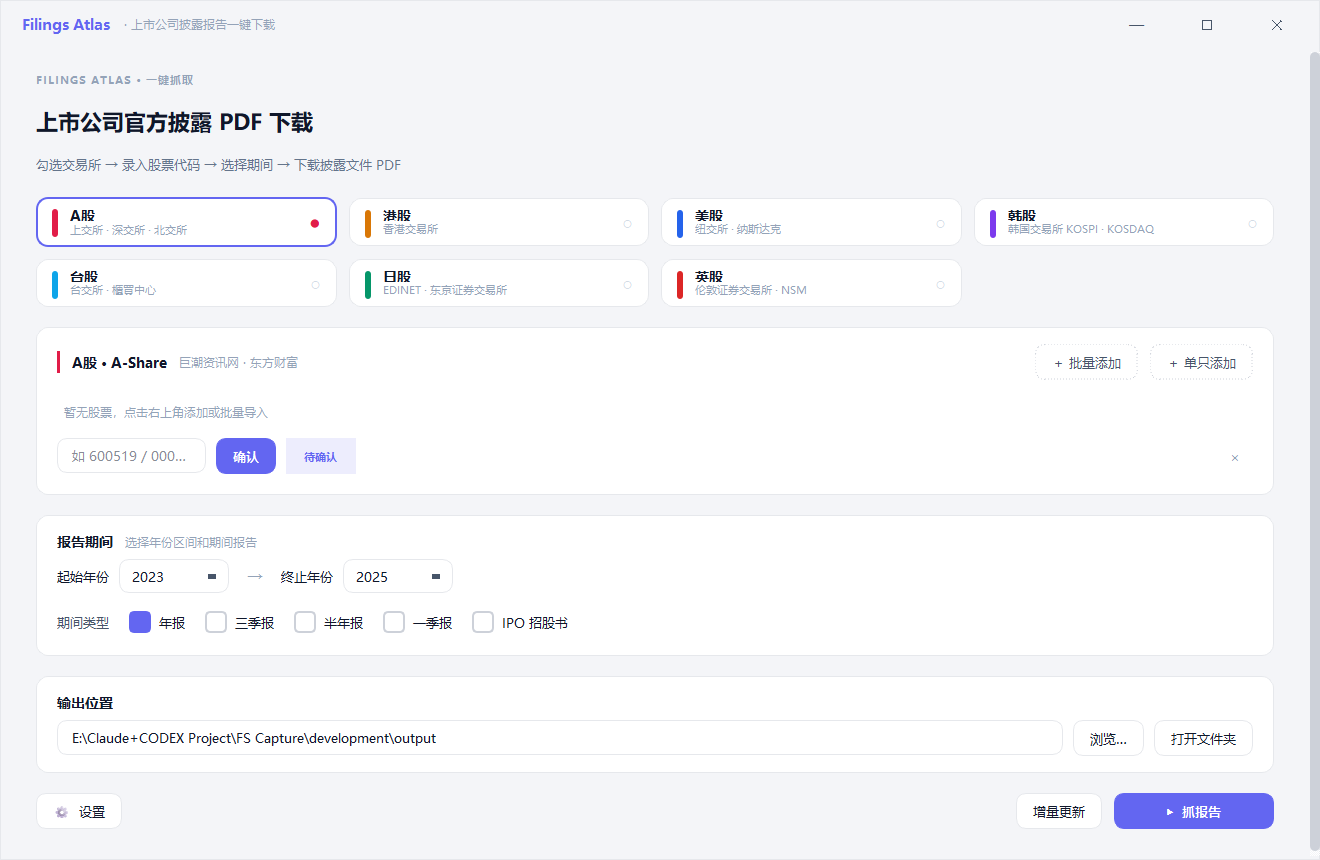
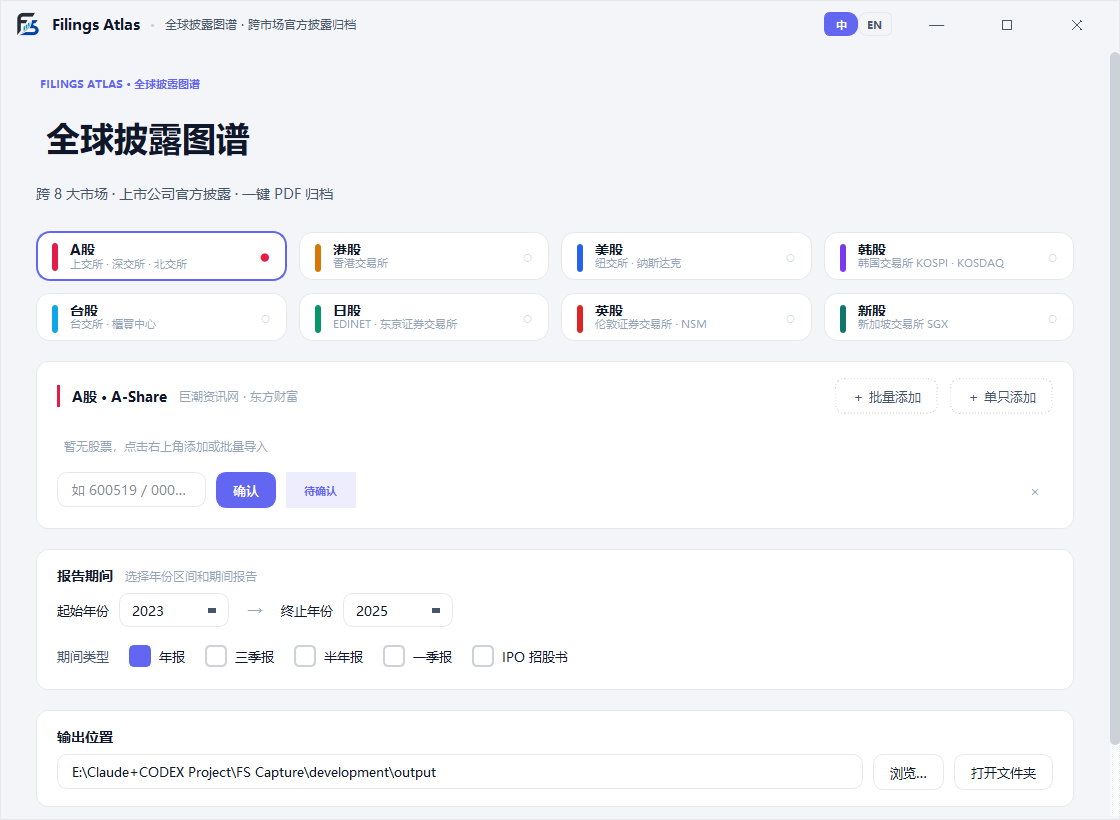
v1.0: 发布打磨 + v1.0.0 tag（批次 7）

diff --git a/CHANGELOG.md b/CHANGELOG.md
@@ -1,8 +1,40 @@
 # Changelog
 
-## v1.0.0 - Unreleased (`roadmap/SPRINT_v1.0_sg_and_perf.md`)
+## v1.0.0 - 2026-05-24
 
-Planned first GitHub release for SG market support, fetch performance work, and zero-experience-cost bundle size reduction.
+First GitHub release for Filings Atlas / 全球披露图谱. This release adds Singapore SGX support, improves batch fetch performance, and keeps the PDF-only scope unchanged.
+
+### Added
+
+- Singapore market support through SGXNet public disclosures.
+  - Annual reports verified with DBS (`D05`), UOB (`U11`) and Singtel (`Z74`).
+  - Interim report support verified with UOB H1.
+  - IPO prospectus support verified with `3407` / LION-CM EM ASIA INDEX ETF.
+- Benchmark harness under `development/tests/benchmarks/` with explicit `FS_CAPTURE_RUN_BENCHMARK=1` opt-in.
+- Performance reports under `docs/perf/` for v0.9 baseline, v1.0 batch-5 A/B results and bundle size.
+
+### Changed
+
+- Default worker concurrency increased from 4 to 6.
+- Name resolver warm-up now starts in the background for full-map markets.
+- Large PDF streaming chunk size increased from 64 KB to 256 KB.
+- Playwright rendering now keeps thread-local browser/context state and clears cookies/permissions after each render.
+- HTTP clients now use tuned connection limits.
+- Sidecar writes are atomic temp-file replacements.
+- PyInstaller spec includes the SG plugin and extra excludes for unused test/dev stacks.
+- Build script trims non-Chinese/non-English Qt translation files after packaging.
+
+### Performance
+
+- Batch benchmark improved from 211.76s to 94.22s on the same 21-task A/HK/US/KR/TW/UK/SG set, a 55.5% reduction versus v0.9 baseline.
+- The prior UK `AZN` zero-report failure in concurrent Playwright rendering is resolved.
+- Bundle size changed from 449.0 MB to 441.4 MB (-7.6 MB). Higher-risk Playwright selective collection and UPX compression were intentionally skipped.
+
+### Compatibility
+
+- v0.9 sidecars under `data/cache/sidecars/` remain readable.
+- The flat output naming contract remains unchanged: `{exchange}_{code}_{company}_{year}_{kind_zh}.pdf`.
+- Existing `config.toml` fields remain compatible.
 
 ## v0.9.0 - 2026-05-23
 

diff --git a/README.md b/README.md
@@ -10,7 +10,7 @@
 
 ## English
 
-Filings Atlas is a Windows desktop tool for one-click downloading of official disclosure PDFs across 7 markets. It focuses on the original filing files only: no financial statement extraction, no ratio calculation, and no Excel workbook generation.
+Filings Atlas is a Windows desktop tool for one-click downloading of official disclosure PDFs across 8 markets. It focuses on the original filing files only: no financial statement extraction, no ratio calculation, and no Excel workbook generation.
 
 ![Filings Atlas English UI](docs/screenshots/main_window_en.png)
 
@@ -25,11 +25,12 @@ Filings Atlas is a Windows desktop tool for one-click downloading of official di
 | Taiwan | TWSE + MOPS | Annual, Q1, Interim, Q3, IPO prospectus | No |
 | Japan | EDINET | Annual, Q1, Interim, Q3 | Strongly recommended EDINET Subscription-Key |
 | United Kingdom | FCA NSM | Annual, interim and trading updates where available | No |
+| Singapore | SGXNet | Annual, interim, IPO prospectus | No |
 
 ### Quick Start
 
-1. Use the local `Filings Atlas.exe` folder supplied with the project until the first public release is published.
-2. Put the folder in any writable location.
+1. Download the Windows release package and extract it to any writable location.
+2. Keep `Filings Atlas.exe` and the `_internal/` folder together.
 3. Double-click `Filings Atlas.exe`.
 4. Select one or more markets, enter ticker codes, and click **Confirm** to resolve company names.
 5. Choose years and report types, then click **Download Reports**.
@@ -46,6 +47,7 @@ Filings Atlas is a Windows desktop tool for one-click downloading of official di
 | Taiwan | `2330`, `2317` |
 | Japan | `7203`, `6758`, `9984.T` |
 | United Kingdom | `ULVR`, `HSBA.L`, `AZN` |
+| Singapore | `D05`, `U11`, `Z74`, `D05.SI` |
 
 ### Optional Keys
 
@@ -54,6 +56,8 @@ Korea works without a key by using the public DART disclosure pages. Adding a fr
 Japan supports a public fallback, but the current build strongly recommends an EDINET Subscription-Key. The official EDINET API v2 uses `Subscription-Key` for document list and document download requests. Register for a free key through [EDINET](https://disclosure2.edinet-fsa.go.jp/) / [EDINET API key registration](https://api.edinet-fsa.go.jp/api/auth/index.aspx), then paste it in **Settings**. Without a key, Japanese downloads may fail when the API endpoint rejects unauthenticated requests.
 
 United Kingdom uses the FCA National Storage Mechanism and does not require a key.
+
+Singapore uses SGXNet public disclosure APIs plus SGX attachment pages and does not require a key.
 
 ### Privacy And Scope
 
@@ -72,7 +76,7 @@ United Kingdom uses the FCA National Storage Mechanism and does not require a ke
 
 ## Chinese
 
-Filings Atlas / 全球披露图谱 是一个 Windows 桌面工具，用于一键下载 7 个市场上市公司的官方披露 PDF。工具只解决“批量拿到原始披露文件”这一件事：不抓三大报表数字、不算财务指标、不生成 Excel 底稿。
+Filings Atlas / 全球披露图谱 是一个 Windows 桌面工具，用于一键下载 8 个市场上市公司的官方披露 PDF。工具只解决“批量拿到原始披露文件”这一件事：不抓三大报表数字、不算财务指标、不生成 Excel 底稿。
 
 ![全球披露图谱中文界面](docs/screenshots/main_window_zh.png)
 
@@ -87,11 +91,12 @@ Filings Atlas / 全球披露图谱 是一个 Windows 桌面工具，用于一键
 | 台股 | TWSE + MOPS | 年报、一季报、半年报、三季报、IPO 公开说明书 | 不需要 |
 | 日股 | EDINET | 年报、一季报、半年报、三季报 | 强烈推荐 EDINET Subscription-Key |
 | 英股 | FCA NSM | 年报、半年报及可用的交易更新 | 不需要 |
+| 新加坡 | SGXNet | 年报、半年报、IPO 招股书 | 不需要 |
 
 ### 快速开始
 
-1. 在首个公开发布版推出前，使用项目随附的本地 `Filings Atlas.exe` 文件夹。
-2. 将该文件夹放到任意可写位置。
+1. 下载 Windows 发布包，并解压到任意可写位置。
+2. 保持 `Filings Atlas.exe` 与 `_internal/` 文件夹在同一目录。
 3. 双击 `Filings Atlas.exe`。
 4. 勾选市场，输入股票代码，点击“确认”识别公司名称。
 5. 选择年份和报告类型，点击“抓报告”。
@@ -108,6 +113,7 @@ Filings Atlas / 全球披露图谱 是一个 Windows 桌面工具，用于一键
 | 台股 | `2330`, `2317` |
 | 日股 | `7203`, `6758`, `9984.T` |
 | 英股 | `ULVR`, `HSBA.L`, `AZN` |
+| 新加坡 | `D05`, `U11`, `Z74`, `D05.SI` |
 
 ### Key 配置
 
@@ -116,6 +122,8 @@ Filings Atlas / 全球披露图谱 是一个 Windows 桌面工具，用于一键
 日股在当前构建中强烈推荐配置 EDINET Subscription-Key。EDINET API v2 的书类列表和文件下载接口都使用 `Subscription-Key`；可通过 [EDINET](https://disclosure2.edinet-fsa.go.jp/) / [EDINET API Key 注册页](https://api.edinet-fsa.go.jp/api/auth/index.aspx) 免费注册并申请 Key，然后在设置中填写。没有 Key 时，工具只会尝试 EDINET 公网页兜底，稳定性不能等同于官方 API。
 
 英股使用 FCA National Storage Mechanism 公网数据源，不需要 Key。
+
+新加坡市场使用 SGXNet 公网披露 API 与 SGX 附件页面，不需要 Key。
 
 ### 隐私与范围
 